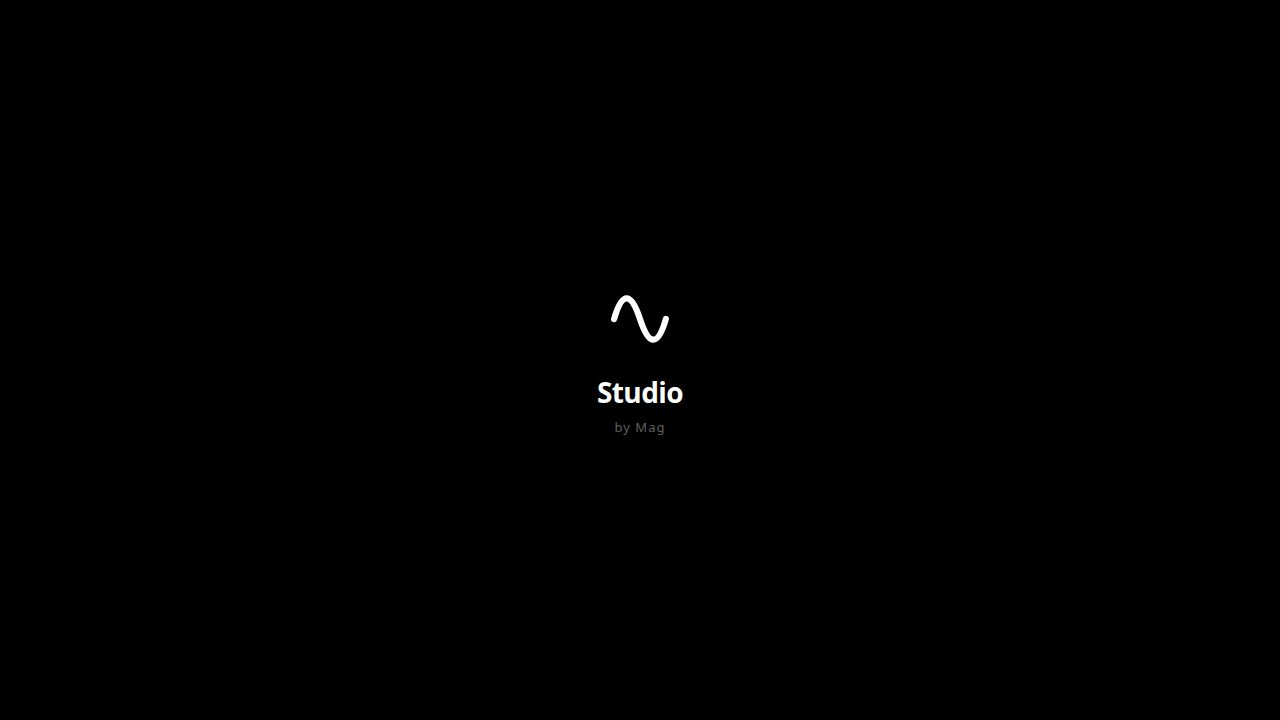
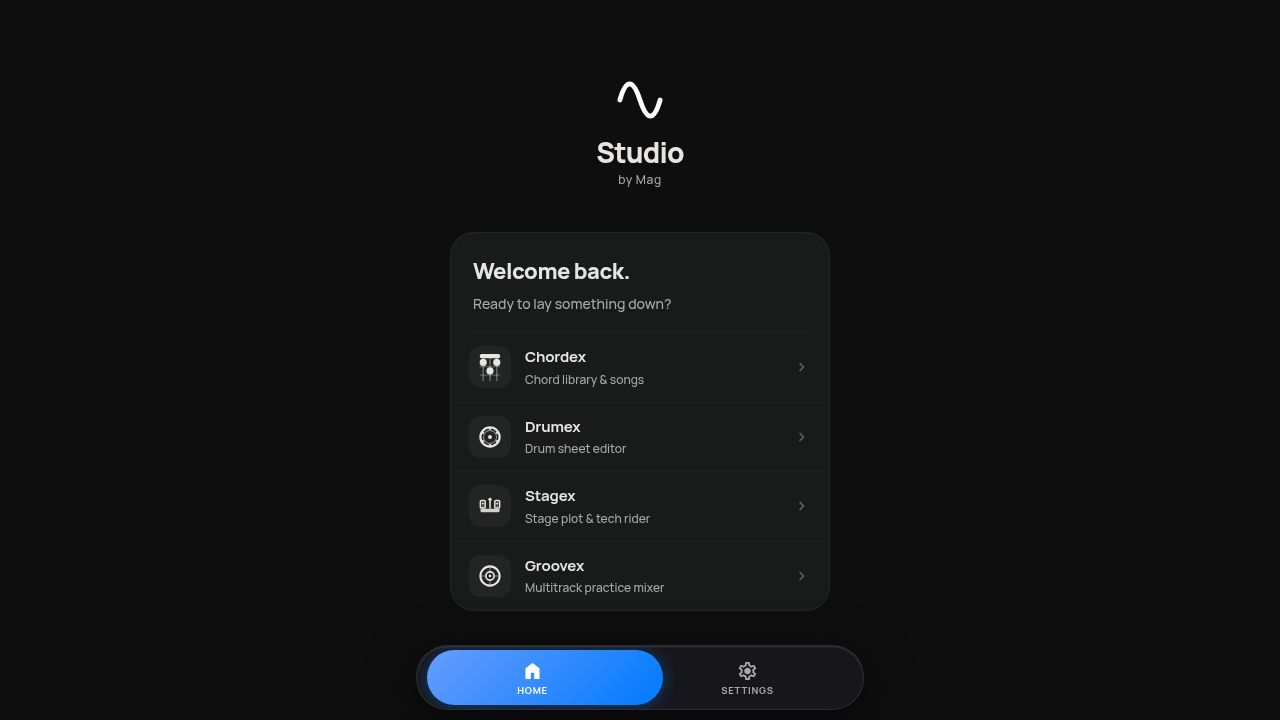
Add functionality to adjust the musical key of songs
Implement key transposition controls in the player interface and update the audio engine to handle pitch shifting using the Web Audio API's detune parameter.

Replit-Commit-Author: Agent
Replit-Commit-Session-Id: ca9d9e25-b04d-4c39-9227-f83c73da4333
Replit-Commit-Checkpoint-Type: full_checkpoint
Replit-Commit-Event-Id: 07475037-10b8-4b5a-8f1a-9186b0743f9e
Replit-Commit-Screenshot-Url: https://storage.googleapis.com/screenshot-production-us-central1/1491b173-f854-4b43-a993-993eae9be875/ca9d9e25-b04d-4c39-9227-f83c73da4333/dD2jLtG
Replit-Helium-Checkpoint-Created: true

Changed region(s): [[0.3438, 0.3056, 0.6562, 0.8556], [0.3125, 0.8861, 0.6875, 1.0], [0.4688, 0.1222, 0.5312, 0.275]]

diff --git a/artifacts/chord-app/src/groovex/GroovexPlayer.tsx b/artifacts/chord-app/src/groovex/GroovexPlayer.tsx
@@ -4,12 +4,27 @@ import { useGroovexStore } from './useGroovexStore';
 import {
   createEngine, initTracks, loadAudioFile, loadAudioBuffer, setTrackBuffer,
   play, pause, stop, seek, setScrubRate, endScrub, setTrackVolume, toggleMute, toggleSolo,
-  setMasterVolume, getCurrentTime, destroyEngine, resumeAudioContext,
+  setMasterVolume, setPitch, getCurrentTime, destroyEngine, resumeAudioContext,
   type AudioEngine,
 } from './audioEngine';
 import { downloadStem, getSongCacheStatus, clearSongCache, type DownloadProgress } from './stemCache';
 
 type PlayerPhase = 'idle' | 'downloading' | 'ready';
+
+const NOTE_NAMES = ['C', 'C#', 'D', 'D#', 'E', 'F', 'F#', 'G', 'G#', 'A', 'A#', 'B'];
+const FLAT_MAP: Record<string, string> = { 'Db': 'C#', 'Eb': 'D#', 'Fb': 'E', 'Gb': 'F#', 'Ab': 'G#', 'Bb': 'A#', 'Cb': 'B' };
+
+function transposeKey(key: string, semitones: number): string {
+  if (!key || semitones === 0) return key;
+  const match = key.match(/^([A-G][b#]?)(.*)/);
+  if (!match) return key;
+  let [, root, suffix] = match;
+  const normalized = FLAT_MAP[root] || root;
+  const idx = NOTE_NAMES.indexOf(normalized);
+  if (idx < 0) return key;
+  const newIdx = ((idx + semitones) % 12 + 12) % 12;
+  return NOTE_NAMES[newIdx] + suffix;
+}
 
 export default function GroovexPlayer() {
   const { activeSongId, setView, preferences } = useGroovexStore();
@@ -26,6 +41,7 @@ export default function GroovexPlayer() {
   const [overallProgress, setOverallProgress] = useState(0);
   const [currentStemLabel, setCurrentStemLabel] = useState('');
   const [failedStems, setFailedStems] = useState<number[]>([]);
+  const [pitchShift, setPitchShift] = useState(0);
   const [tracks, setTracks] = useState<{
     name: string; label: string; icon: string;
     volume: number; muted: boolean; solo: boolean; loaded: boolean;
@@ -50,6 +66,7 @@ export default function GroovexPlayer() {
     setOverallProgress(0);
     setCurrentStemLabel('');
     setFailedStems([]);
+    setPitchShift(0);
     cancelAnimationFrame(rafRef.current);
 
     if (song.hasStems) {
@@ -270,6 +287,15 @@ export default function GroovexPlayer() {
     }
   }
 
+  function handlePitchChange(delta: number) {
+    const newPitch = Math.max(-6, Math.min(6, pitchShift + delta));
+    setPitchShift(newPitch);
+    const engine = engineRef.current;
+    if (engine) {
+      setPitch(engine, newPitch);
+    }
+  }
+
   function handleSkip(delta: number) {
     const engine = engineRef.current;
     if (!engine) return;
@@ -384,7 +410,10 @@ export default function GroovexPlayer() {
             }}>
               <span>{song.bpm} BPM</span>
               <span style={{ opacity: 0.3 }}>|</span>
-              <span>{song.key}</span>
+              <span style={{ color: pitchShift !== 0 ? 'var(--gx-accent)' : undefined, fontWeight: pitchShift !== 0 ? 600 : undefined }}>
+                {transposeKey(song.key, pitchShift)}
+                {pitchShift !== 0 && <span style={{ fontSize: 10, opacity: 0.7 }}> ({pitchShift > 0 ? '+' : ''}{pitchShift})</span>}
+              </span>
               <span style={{ opacity: 0.3 }}>|</span>
               <span style={{ color: 'var(--c-text-primary)', fontWeight: 600 }}>{formatTime(currentTime)}</span>
               <span style={{ opacity: 0.4 }}>/</span>
@@ -486,6 +515,86 @@ export default function GroovexPlayer() {
 
                 <TransportBtn icon="forward_10" onClick={() => handleSkip(10)} />
                 <TransportBtn icon="skip_next" onClick={() => handleSkip(duration)} />
+              </div>
+
+              <div style={{
+                display: 'flex', alignItems: 'center', justifyContent: 'center', gap: 6,
+                marginTop: 18,
+              }}>
+                <button
+                  onClick={() => handlePitchChange(-1)}
+                  disabled={pitchShift <= -6}
+                  style={{
+                    width: 36, height: 36, borderRadius: 10, border: 'none', cursor: pitchShift <= -6 ? 'not-allowed' : 'pointer',
+                    background: 'var(--gx-surface)', color: pitchShift <= -6 ? 'var(--c-text-secondary)' : 'var(--c-text-primary)',
+                    display: 'flex', alignItems: 'center', justifyContent: 'center',
+                    opacity: pitchShift <= -6 ? 0.4 : 1,
+                    transition: 'transform 150ms ease, opacity 150ms ease',
+                  }}
+                  onPointerDown={e => { if (pitchShift > -6) e.currentTarget.style.transform = 'scale(0.9)'; }}
+                  onPointerUp={e => (e.currentTarget.style.transform = 'scale(1)')}
+                  onPointerLeave={e => (e.currentTarget.style.transform = 'scale(1)')}
+                >
+                  <span className="material-symbols-outlined" style={{ fontSize: 18 }}>remove</span>
+                </button>
+
+                <div style={{
+                  minWidth: 110, textAlign: 'center', padding: '6px 12px',
+                  borderRadius: 10, background: pitchShift !== 0 ? 'rgba(0,122,255,0.08)' : 'var(--gx-surface)',
+                  transition: 'background 200ms ease',
+                }}>
+                  <div style={{
+                    fontSize: 10, fontWeight: 700, letterSpacing: '0.1em', textTransform: 'uppercase',
+                    color: 'var(--c-text-secondary)', fontFamily: 'Inter, sans-serif', marginBottom: 2,
+                  }}>Key</div>
+                  <div style={{
+                    fontSize: 15, fontWeight: 800, fontFamily: 'Manrope, sans-serif',
+                    color: pitchShift !== 0 ? 'var(--gx-accent)' : 'var(--c-text-primary)',
+                    transition: 'color 200ms ease',
+                  }}>
+                    {transposeKey(song.key, pitchShift)}
+                    {pitchShift !== 0 && (
+                      <span style={{ fontSize: 11, fontWeight: 600, opacity: 0.7, marginLeft: 4 }}>
+                        {pitchShift > 0 ? '+' : ''}{pitchShift}
+                      </span>
+                    )}
+                  </div>
+                </div>
+
+                <button
+                  onClick={() => handlePitchChange(1)}
+                  disabled={pitchShift >= 6}
+                  style={{
+                    width: 36, height: 36, borderRadius: 10, border: 'none', cursor: pitchShift >= 6 ? 'not-allowed' : 'pointer',
+                    background: 'var(--gx-surface)', color: pitchShift >= 6 ? 'var(--c-text-secondary)' : 'var(--c-text-primary)',
+                    display: 'flex', alignItems: 'center', justifyContent: 'center',
+                    opacity: pitchShift >= 6 ? 0.4 : 1,
+                    transition: 'transform 150ms ease, opacity 150ms ease',
+                  }}
+                  onPointerDown={e => { if (pitchShift < 6) e.currentTarget.style.transform = 'scale(0.9)'; }}
+                  onPointerUp={e => (e.currentTarget.style.transform = 'scale(1)')}
+                  onPointerLeave={e => (e.currentTarget.style.transform = 'scale(1)')}
+                >
+                  <span className="material-symbols-outlined" style={{ fontSize: 18 }}>add</span>
+                </button>
+
+                {pitchShift !== 0 && (
+                  <button
+                    onClick={() => { setPitchShift(0); const engine = engineRef.current; if (engine) setPitch(engine, 0); }}
+                    style={{
+                      marginLeft: 4, width: 36, height: 36, borderRadius: 10, border: 'none', cursor: 'pointer',
+                      background: 'rgba(238,125,119,0.08)', color: '#ee7d77',
+                      display: 'flex', alignItems: 'center', justifyContent: 'center',
+                      transition: 'transform 150ms ease',
+                    }}
+                    onPointerDown={e => (e.currentTarget.style.transform = 'scale(0.9)')}
+                    onPointerUp={e => (e.currentTarget.style.transform = 'scale(1)')}
+                    onPointerLeave={e => (e.currentTarget.style.transform = 'scale(1)')}
+                    title="Reset to original key"
+                  >
+                    <span className="material-symbols-outlined" style={{ fontSize: 16 }}>restart_alt</span>
+                  </button>
+                )}
               </div>
             </section>
 

diff --git a/artifacts/chord-app/src/groovex/audioEngine.ts b/artifacts/chord-app/src/groovex/audioEngine.ts
@@ -36,6 +36,7 @@ export interface AudioEngine {
   duration: number;
   looping: boolean;
   _rampTimer: ReturnType<typeof setTimeout> | null;
+  pitchSemitones: number;
 }
 
 export function createEngine(): AudioEngine {
@@ -52,6 +53,7 @@ export function createEngine(): AudioEngine {
     duration: 0,
     looping: false,
     _rampTimer: null,
+    pitchSemitones: 0,
   };
 }
 
@@ -112,6 +114,9 @@ export function play(engine: AudioEngine): void {
     source.connect(track.gainNode);
     source.playbackRate.setValueAtTime(0.15, ctx.currentTime);
     source.playbackRate.exponentialRampToValueAtTime(1.0, ctx.currentTime + 0.7);
+    if (engine.pitchSemitones !== 0) {
+      source.detune.setValueAtTime(engine.pitchSemitones * 100, ctx.currentTime);
+    }
     source.start(0, offset);
     track.source = source;
 
@@ -189,6 +194,9 @@ export function seek(engine: AudioEngine, time: number): void {
       source.buffer = track.buffer;
       source.loop = engine.looping;
       source.connect(track.gainNode);
+      if (engine.pitchSemitones !== 0) {
+        source.detune.setValueAtTime(engine.pitchSemitones * 100, ctx.currentTime);
+      }
       source.start(0, offset);
       track.source = source;
       if (!engine.looping) {
@@ -235,6 +243,9 @@ export function endScrub(engine: AudioEngine, targetTime: number): void {
       source.loop = engine.looping;
       source.connect(track.gainNode);
       source.playbackRate.setValueAtTime(1.0, ctx.currentTime);
+      if (engine.pitchSemitones !== 0) {
+        source.detune.setValueAtTime(engine.pitchSemitones * 100, ctx.currentTime);
+      }
       source.start(0, offset);
       track.source = source;
       if (!engine.looping) {
@@ -248,6 +259,18 @@ export function endScrub(engine: AudioEngine, targetTime: number): void {
     });
     applyMutesSolos(engine);
   }
+}
+
+export function setPitch(engine: AudioEngine, semitones: number): void {
+  engine.pitchSemitones = semitones;
+  const cents = semitones * 100;
+  engine.tracks.forEach(track => {
+    if (track.source) {
+      try {
+        track.source.detune.setValueAtTime(cents, engine.ctx.currentTime);
+      } catch {}
+    }
+  });
 }
 
 export function setTrackVolume(engine: AudioEngine, trackIndex: number, volume: number): void {